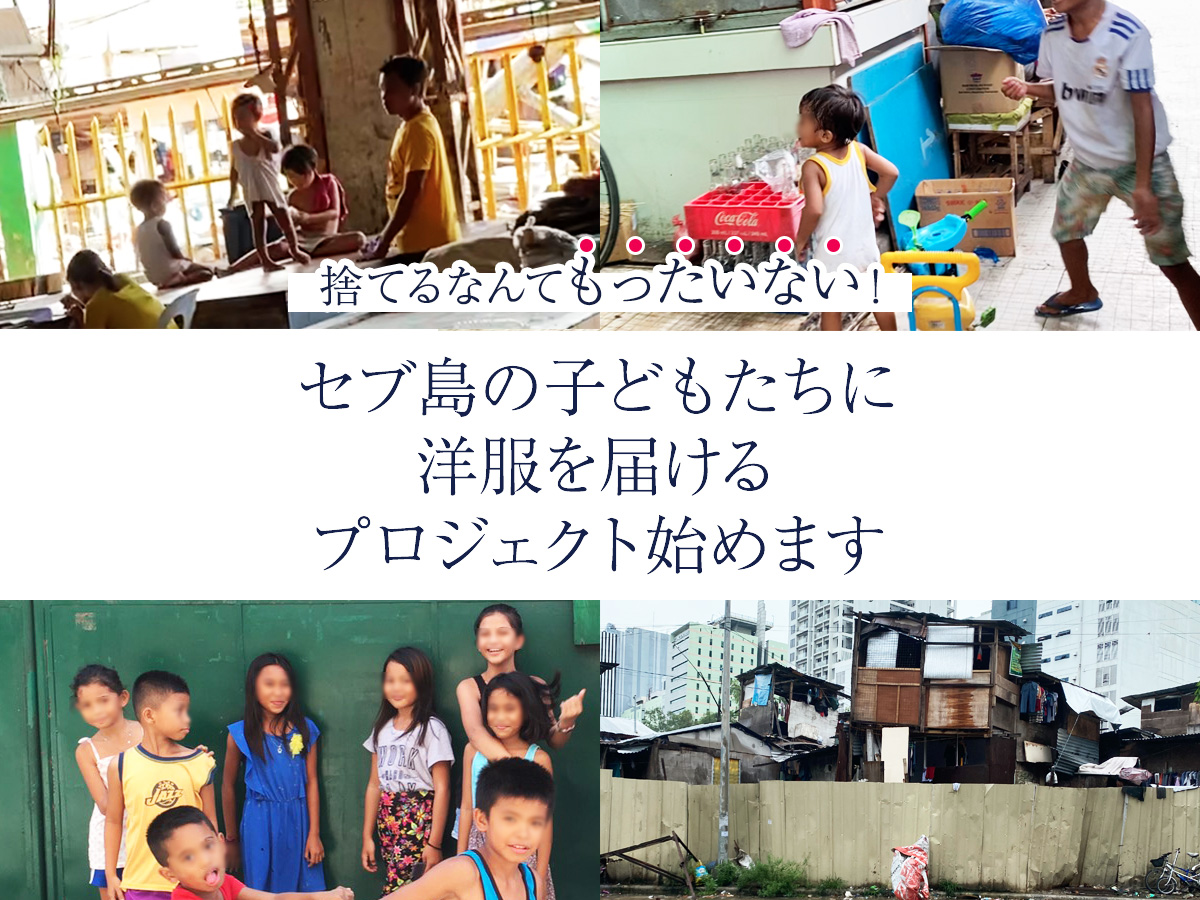
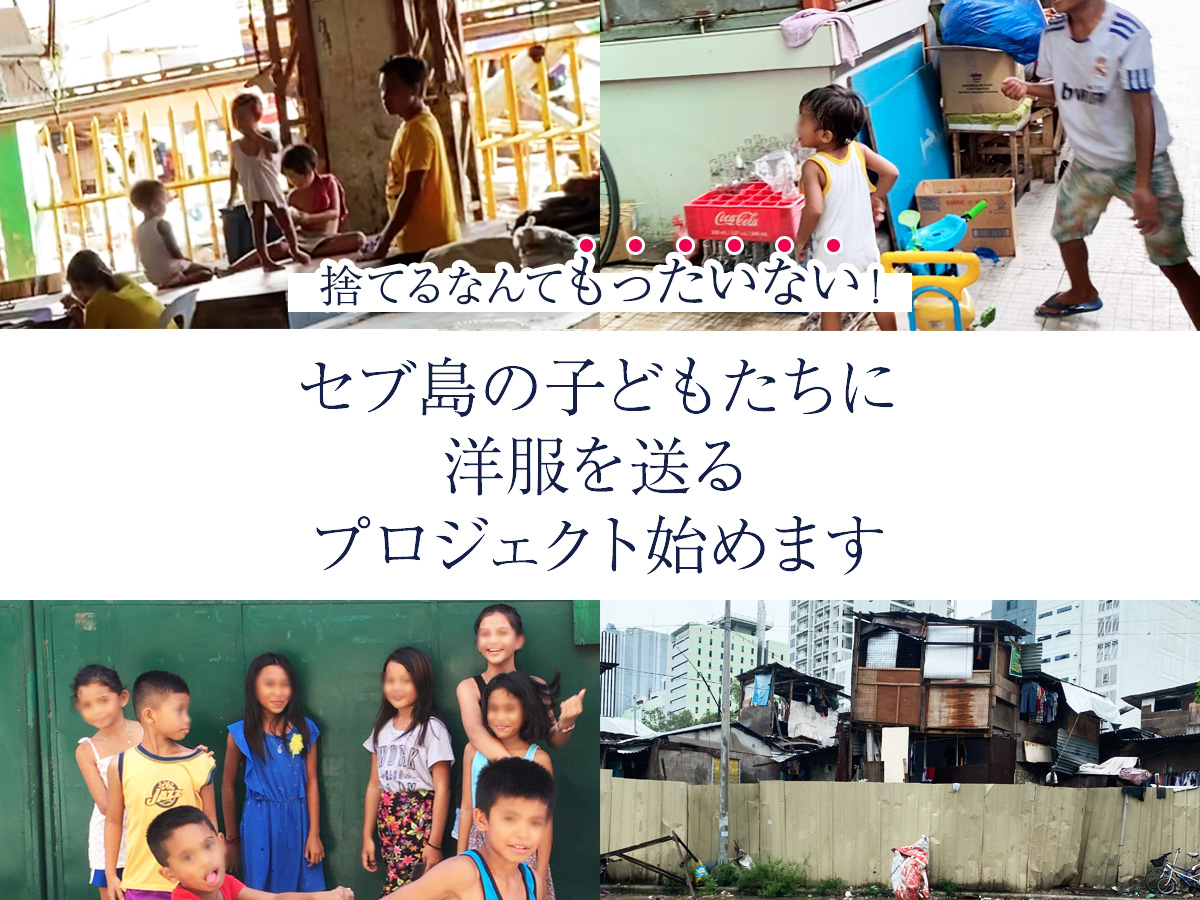
記事追加

Changed region(s): [[0.3392, 0.4667, 0.6475, 0.56]]

diff --git a/content/blog/blogs/entry479.md b/content/blog/blogs/entry479.md
@@ -1,0 +1,180 @@
+---
+title: セブ島•スラムの火事で被災した子どもたちに服を配ってきました
+date: 2021-12-20
+hero: thumbnail/2021/entry479.jpg
+pagetype: blog
+cateId: 'overseas-freelancing'
+tags: ["子ども服をセブに送るプロジェクト"]
+description: 「子ども服をセブに送るプロジェクト」！プロジェクトのレポートです。大規模火災のあったマンバリンのスラムで避難生活をしている子どもたちに洋服を配布しました。今回もまた、DAREDEMO HEROさんに同行させていただきました。
+lead: ["「子ども服をセブに送るプロジェクト」プロジェクトのレポートです。","
+大規模火災のあったマンバリンのスラムで避難生活をしている子どもたちに洋服を配布しました。","今回もまた、DAREDEMO HEROさんに同行させていただきました。"]
+---
+## セブ島マンダリンのスラムの大火災。約150世代が避難
+2021年11月26日、マンダリンのスラム街で大規模火災が起きました。
+現在、近くの小学校に被災した住人が避難しています。
+
+![近くの小学校に被災した住人が避難](./images/2021/12/entry479-0.jpg)
+
+12月14日、DAREDEMO HEROさんがアイスと物資を配りに行くとのことで同行させていただきました。
+
+### 小学校の教室には数家族、校庭？には無数のテント
+私も[Lynks](https://lynks.jp/)さんからいただいた洋服を子どもたちに配らせていただきました。
+
+![支援物資をもらうための長い列](./images/2021/12/entry479-1.jpg)
+
+あっという間に支援物資をもらうための長蛇の列。
+
+![Lynksさんからいただいた洋服を配布](./images/2021/12/entry479-1-0.jpg)
+
+![洋服を受け取るこども](./images/2021/12/entry479-1-1.jpg)
+
+子どもたちに洋服を配るプロジェクトのきっかけはこちら。
+
+<card id="/blogs/entry445/"></card>
+
+微力ながら他の支援者様の物資の配布も手伝わせていただきました。
+
+![他の支援者様の物資の配布も手伝う](./images/2021/12/entry479-2-0.jpg)
+
+### 子どもはやはり子ども
+支援物資の中にいいオモチャが見つかろうものなら、我先に奪い合っていました。
+
+![他の支援者様の物資の配布も手伝う](./images/2021/12/entry479-3.jpg)
+
+スラムの子どもたちも他の子ども同様、遊びたいんだなぁと。
+
+大人にも同様に配布がありました。
+ある男性は子供のおもちゃを数個も選んでました。
+
+後で被災者の生活を視察した時に知ったのですが、その男性には小さい赤ちゃんがいました。
+
+自分の必需品よりも子どもを優先。<br>
+我が子を思う気持ちは国籍や人種は関係ないですね。
+
+### アイスをもらってご満悦
+アイスはマンゴーと紫芋のアイスを2樽ありました。
+
+![アイスはマンゴーと紫芋のアイスを2樽](./images/2021/12/entry479-4.jpg)
+
+洋服をもらった後、カップいっぱいに入ったアイスをもらい、子どもたちは御満悦??
+
+![みんな、嬉しそう](./images/2021/12/entry479-4-0.jpg)
+
+みんな、嬉しそう。
+
+![みんな、嬉しそう](./images/2021/12/entry479-4-1.jpg)
+
+年中常夏のフィリピンですが、避難所も冷房などありません。<br>
+ひんやり甘いアイスは最高のご馳走だったことと思います。
+
+
+セブではチャリンコに乗ったおじいちゃんがよくアイスを売って回ってます。<br>昔はわずか1ペソ。今でもたった5ペソ(約14円くらい)です。<br>チロルチョコが昔10円だった頃を思い出しました。
+
+## 被災中の住人の生活を視察
+避難住民はテントや教室で暮らしてます。<br>
+テントは1世帯、教室には3世帯ぐらいいました。
+
+教室に行くと孫をあやすおばあちゃん。
+
+![孫をあやすおばあちゃん](./images/2021/12/entry479-7.jpg)
+
+写真撮るよーというといろんな家族が集合してくれます。
+
+![写真撮るよーというとたくさん集合](./images/2021/12/entry479-6.jpg)
+
+テントの中には親子で頭のシラミ取りをしているのを見かけました。
+
+私が知ってるスラムは墓地とゴミ山です。<br>
+トイレもないし水道も通ってません。<br>
+おそらくどのスラムもそんな感じだと思います。
+
+避難所はまだ仮設トイレもあるし、水も自由に使えるので従来の生活よりマシそうです。
+
+![避難所には仮設トイレ](./images/2021/12/entry479-5.jpg)
+
+### 火災現場へ足を運ぶ
+火災現場に行くと見事に平らになっていました。<br>
+火災ですべて燃え尽きた感じがしました。
+
+![マンバリンの火災現場](./images/2021/12/entry479-8.jpg)
+
+瓦礫の中で何かを必死に探す人も。
+
+あわよくば売れるものが見つかれば！という感じなんでしょうか。。
+
+
+## セブ島での火事は驚くほど頻繁に起こる
+実は、私が初めてセブ島に来た時、火事の起きやすさに驚きました。
+
+* スラムの家はベニア板など、とても燃えやすい軽い建材
+* 小さくて狭い場所に家がひしめきあって建てられている
+* 調理は炭火かカセットコンロなど
+* イリーガルタッピング(盗電)
+
+上記のような理由で、火が回りやすくあっという間に燃え尽きてしまいます。
+
+### 父から聞いた戦後の話を思い出した
+スラムの住人は元々違法で住み着いている人がほとんどです。<br>
+彼らが立ち退けば、国は道路などの土地開発ができると言う話を聞きました。
+
+
+戦後に生まれた父の話を思い出しました。
+
+私の故郷、広島でも戦後復興したい市街地にはまだバラックが立ち並び、同様に火事で燃えやすかったそう。
+
+もちろん当時の日本政府や地方自治体も違法に住み着いた住人に立ち退いてほしい。<br>
+なので、火事が起こるとあえて遅れて消防活動をしたそうです。
+
+日本にもそんな時代があったんですよ。
+
+## お墓やゴミ山だけではない、スラムにはまだ支援が必要
+今回思ったのはフィリピンには数えきれないほど貧困地区があると肌身で感じました。
+
+フィリピンには日本以外にもたくさんのボランティア団体がいます。
+
+彼らが支援しなければもっと状況は酷いかもしれないと思うこともあります。
+
+### 世界一ボランティアをしない国•日本を考察
+実は、日本は *最もボランティアをしない国* だそうです。<br>
+たしかに、日本に住んでいた頃を思い出すと、周りにボランティアをしてる人は少なかったです。<br>
+ただ聞いてみると、興味のある人は沢山います。
+
+
+ボランティアをしたいと思っても実行できないのはなぜなんでしょうか。
+
+私も昔、ボランティアしたいと思ってもやることはありませんでした。
+
+昔の私を考察すると、*答えは **機会がない** から*、です。<br>
+日々の忙しさにちょっとやりたいと思って忘れる、繰り返しです。
+
+日本はなかなか後押しがないと、ボランティアに踏み切れないのが現実です。
+
+## さいごに
+今回もスポットで洋服配布手伝わせていただきました。<br>
+日々活動をしているボランティア団体の方々には心から感謝します。
+
+最後までこの記事をお読みくださり、ありがとうございました。
+
+<div class="box">
+  <h4>「子ども服をセブに送るプロジェクト」支援者の皆様</h4>
+  <p>送料を送るためにご支援いただきましたみなさまありがとうございます！</p>
+  <ul>
+    <li><a href="https://www.ec-cube.net" rel="nofollow noopner" target="_blank">株式会社イーシーキューブ 様</a></li>
+    <li>ヤマモト コウ 様</li>
+    <li>中村 亜夜 様</li>
+    <li>満井 美恵 様</li>
+    <li><a href="https://kdl.design/" rel="nofollow noopner" target="_blank">栗原デザイン室 様</a></li>
+    <li><a href="https://tantan.work/" rel="nofollow noopner" target="_blank">TanTan 様</a></li>
+    <li><a href="https://www.dream-tech.jp/" rel="nofollow noopner" target="_blank">ハッピーちゃい夢 様</a></li>
+  </ul>
+  <h4>洋服の支援元</h4>
+  <ul>
+    <li><a href="https://www.lynks.jp/t" rel="nofollow noopner" target="_blank">Lynks 様</a></li>
+  </ul>
+</div>
+
+<br><br>支援に関する資料は[フィリピンセブ島の恵まれない子たちへ
+支援物資送料寄付のお願い
+](https://docs.google.com/presentation/d/1arV9Jb5vQHyKqKlpG0HS_nTLt4n9hdbw/edit?usp=sharing&ouid=117160028250625203295&rtpof=true&sd=true)をご覧ください。
+
+DAREDEMO HERO Inc.の支援に興味がある方は、直接[お問い合わせ](https://daredemohero.com/)ください。

diff --git a/content/blog/blogs/entry445.md b/content/blog/blogs/entry445.md
@@ -1,5 +1,5 @@
 ---
-title: 捨てるなんてもったいない！セブ島の子どもたちに洋服を届けるプロジェクト始めます
+title: 捨てるなんてもったいない！セブ島の子どもたちに洋服を送るプロジェクト始めます
 date: 2021-03-14
 hero: thumbnail/2021/entry445.jpg
 pagetype: blog
